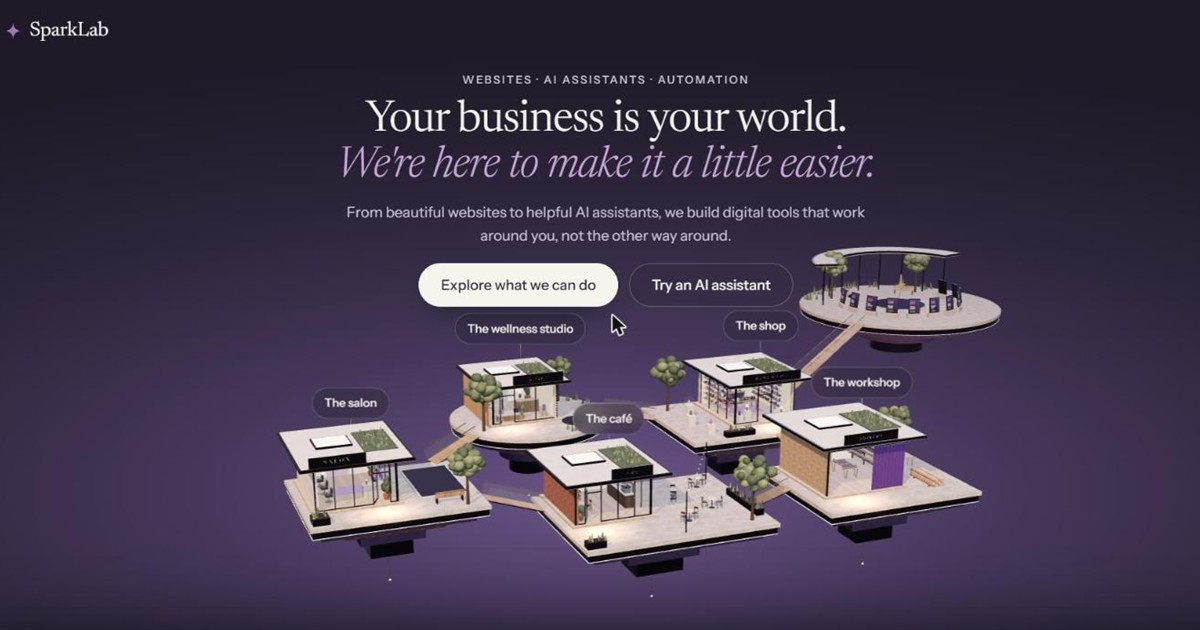
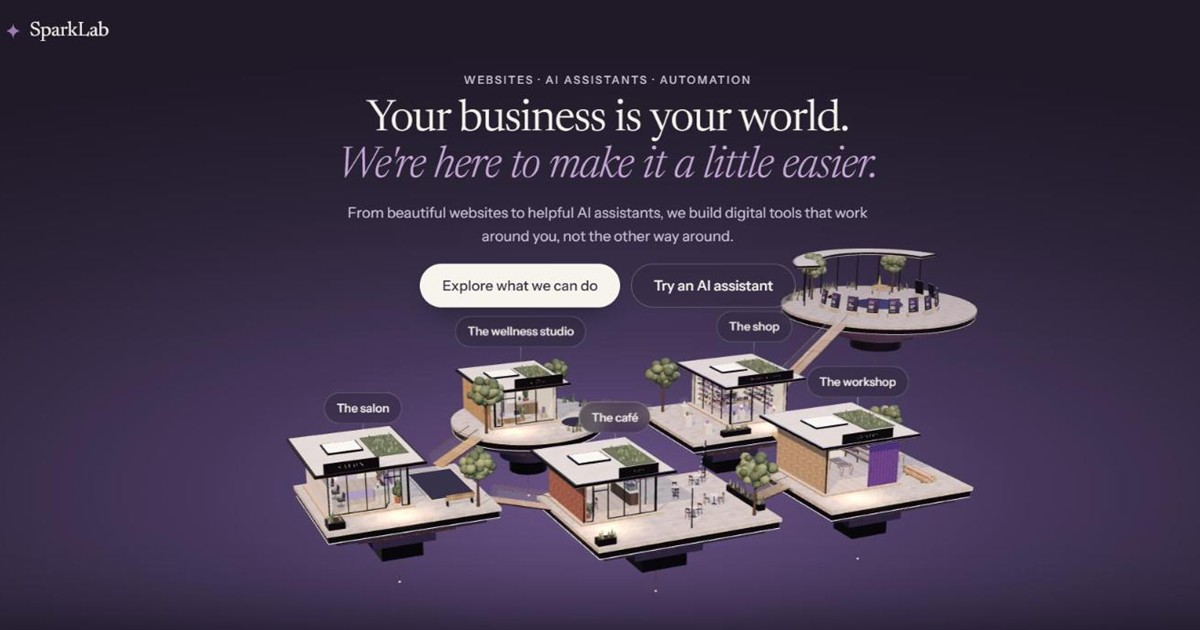
About: add portrait; restore outcomes and no-show steps; retake social image
- About section uses assets/Sara.webp in place of the monogram
- "Why it's worth it" outcomes restored under Services
- No-show saver steps restored inside its assistant panel
- Social image retaken without the mouse cursor

diff --git a/index.html b/index.html
@@ -470,8 +470,17 @@ input[type="range"]::-moz-range-thumb { width: 22px; height: 22px; border-radius
 /* ---------- about ---------- */
 .letter { display: grid; grid-template-columns: minmax(240px, .8fr) minmax(0, 1.4fr); gap: clamp(30px, 7vw, 110px); padding-top: clamp(30px, 4vw, 60px); border-top: 1px solid var(--line); }
 .letter-side h2 { margin-top: 14px; }
-.monogram { width: 92px; height: 92px; margin: 34px 0 16px; border-radius: 50%; display: grid; place-items: center; background: var(--plum); color: var(--lav-light); box-shadow: 0 0 0 8px rgba(160, 120, 180, .14); }
-.monogram svg { width: 38px; height: 38px; }
+.portrait { width: min(100%, 300px); height: auto; aspect-ratio: 4 / 5; object-fit: cover; object-position: 50% 30%; margin: 30px 0 18px; border-radius: 999px 999px 20px 20px;
+  box-shadow: 0 0 0 8px rgba(160, 120, 180, .14), 0 30px 60px -30px rgba(48, 40, 60, .55); }
+.worth { margin-top: clamp(40px, 6vw, 72px); padding: clamp(24px, 3vw, 40px); border-radius: 24px; background: var(--ivory-2); }
+.worth ul { display: grid; grid-template-columns: repeat(4, 1fr); gap: 24px; margin-top: 20px; }
+.worth li { font-size: .93rem; line-height: 1.55; color: #4B4357; padding-top: 14px; border-top: 2px solid var(--lavender); }
+.worth b { display: block; font-family: var(--serif); font-weight: 400; font-size: 1.18rem; line-height: 1.25; color: var(--plum); margin-bottom: 6px; }
+.flow { display: grid; grid-template-columns: repeat(4, 1fr); gap: 10px; margin: 0 0 20px; counter-reset: f; }
+.flow li { counter-increment: f; font-size: .8rem; line-height: 1.4; color: #D9D1E0; padding: 10px 12px; border-radius: 12px; background: rgba(247, 243, 237, .05); border: 1px solid var(--line-dark); }
+.flow b { display: block; font-weight: 600; color: var(--ivory); margin-bottom: 3px; }
+.flow b::before { content: counter(f) ". "; color: var(--lav-light); }
+@media (max-width: 980px) { .worth ul { grid-template-columns: 1fr 1fr; } .flow { grid-template-columns: 1fr 1fr; } }
 .letter-meta { font-size: .86rem; color: var(--muted); line-height: 1.7; }
 .letter-body p { font-size: 1.14rem; line-height: 1.7; color: #453D52; max-width: 38rem; margin-bottom: 18px; }
 .letter-body .first { font-family: var(--serif); font-size: clamp(1.6rem, 2.6vw, 2.2rem); line-height: 1.25; color: var(--plum); letter-spacing: -.01em; }
@@ -850,6 +859,16 @@ input[type="range"]::-moz-range-thumb { width: 22px; height: 22px; border-radius
           <li><span>2</span><div><h3>You see it live first</h3><p>You get a link and try it out. If it's not right, we fix it. Only then do you decide.</p></div></li>
           <li><span>3</span><div><h3>It goes live on your domain</h3><p>Wired into your booking system, or sending enquiries straight to you if you don't have one.</p></div></li>
         </ol>
+
+        <div class="worth" aria-labelledby="worth-title">
+          <h3 id="worth-title">Why it's worth it</h3>
+          <ul>
+            <li><b>Catch enquiries while your hands are full.</b> Mid-job, mid-appointment, up a ladder: the assistant answers the questions you'd otherwise miss, and books people in.</li>
+            <li><b>Look credible when people Google you.</b> A tidy, professional site that loads fast and reads well builds trust before they ever message you.</li>
+            <li><b>Stop losing bookings to a slow inbox.</b> People decide quickly. A reply in the moment is the difference between a booking and a missed one.</li>
+            <li><b>Spend less time on admin.</b> Updates, hosting and the fiddly bits are handled, so you can get on with the actual work.</li>
+          </ul>
+        </div>
       </section>
     </div>
 
@@ -973,6 +992,12 @@ input[type="range"]::-moz-range-thumb { width: 22px; height: 22px; border-radius
               <div><dt>What to try</dt><dd>Walk through a reminder and a cancellation to see the messages it writes.</dd></div>
               <div><dt>Made yours</dt><dd>Written in your tone, around your own cancellation policy. No hard sell.</dd></div>
             </dl>
+            <ol class="flow" aria-label="How the no-show saver works">
+              <li><b>Reminder sent</b>A friendly nudge goes out before the appointment.</li>
+              <li><b>Cancellation spotted</b>If someone cancels or doesn't confirm, it knows straight away.</li>
+              <li><b>Warm win-back sent</b>A message asks if they'd like to rebook. No hard sell.</li>
+              <li><b>Slot filled</b>The gap gets picked up instead of sitting empty.</li>
+            </ol>
             <div class="demo">
               <p class="st-demo-note"><strong>Demo.</strong> "Willow Lane Massage" is a fictional business used only for this demonstration.</p>
               <div class="rc glass" id="nsRoot" data-client="willow-lane" role="group" aria-label="No-show saver"></div>
@@ -1287,7 +1312,7 @@ input[type="range"]::-moz-range-thumb { width: 22px; height: 22px; border-radius
           <div class="letter-side">
             <p class="eyebrow">The person behind SparkLab</p>
             <h2 id="about-title">Hello, <em>I'm Sara.</em></h2>
-            <div class="monogram" aria-hidden="true"><svg viewBox="0 0 24 24"><path fill="currentColor" d="M12 1.5c.5 5.6 2.4 8.3 9 10.5-6.6 2.2-8.5 4.9-9 10.5-.5-5.6-2.4-8.3-9-10.5 6.6-2.2 8.5-4.9 9-10.5z"/></svg></div>
+            <img class="portrait" src="/assets/Sara.webp" width="1600" height="1600" loading="lazy" alt="Sara, the person behind SparkLab, smiling at the camera">
             <p class="letter-meta">Independent · Norwich-based<br>Working with small businesses wherever they are</p>
           </div>
           <div class="letter-body">

diff --git a/worlds/styles.css b/worlds/styles.css
@@ -431,8 +431,17 @@ input[type="range"]::-moz-range-thumb { width: 22px; height: 22px; border-radius
 /* ---------- about ---------- */
 .letter { display: grid; grid-template-columns: minmax(240px, .8fr) minmax(0, 1.4fr); gap: clamp(30px, 7vw, 110px); padding-top: clamp(30px, 4vw, 60px); border-top: 1px solid var(--line); }
 .letter-side h2 { margin-top: 14px; }
-.monogram { width: 92px; height: 92px; margin: 34px 0 16px; border-radius: 50%; display: grid; place-items: center; background: var(--plum); color: var(--lav-light); box-shadow: 0 0 0 8px rgba(160, 120, 180, .14); }
-.monogram svg { width: 38px; height: 38px; }
+.portrait { width: min(100%, 300px); height: auto; aspect-ratio: 4 / 5; object-fit: cover; object-position: 50% 30%; margin: 30px 0 18px; border-radius: 999px 999px 20px 20px;
+  box-shadow: 0 0 0 8px rgba(160, 120, 180, .14), 0 30px 60px -30px rgba(48, 40, 60, .55); }
+.worth { margin-top: clamp(40px, 6vw, 72px); padding: clamp(24px, 3vw, 40px); border-radius: 24px; background: var(--ivory-2); }
+.worth ul { display: grid; grid-template-columns: repeat(4, 1fr); gap: 24px; margin-top: 20px; }
+.worth li { font-size: .93rem; line-height: 1.55; color: #4B4357; padding-top: 14px; border-top: 2px solid var(--lavender); }
+.worth b { display: block; font-family: var(--serif); font-weight: 400; font-size: 1.18rem; line-height: 1.25; color: var(--plum); margin-bottom: 6px; }
+.flow { display: grid; grid-template-columns: repeat(4, 1fr); gap: 10px; margin: 0 0 20px; counter-reset: f; }
+.flow li { counter-increment: f; font-size: .8rem; line-height: 1.4; color: #D9D1E0; padding: 10px 12px; border-radius: 12px; background: rgba(247, 243, 237, .05); border: 1px solid var(--line-dark); }
+.flow b { display: block; font-weight: 600; color: var(--ivory); margin-bottom: 3px; }
+.flow b::before { content: counter(f) ". "; color: var(--lav-light); }
+@media (max-width: 980px) { .worth ul { grid-template-columns: 1fr 1fr; } .flow { grid-template-columns: 1fr 1fr; } }
 .letter-meta { font-size: .86rem; color: var(--muted); line-height: 1.7; }
 .letter-body p { font-size: 1.14rem; line-height: 1.7; color: #453D52; max-width: 38rem; margin-bottom: 18px; }
 .letter-body .first { font-family: var(--serif); font-size: clamp(1.6rem, 2.6vw, 2.2rem); line-height: 1.25; color: var(--plum); letter-spacing: -.01em; }
